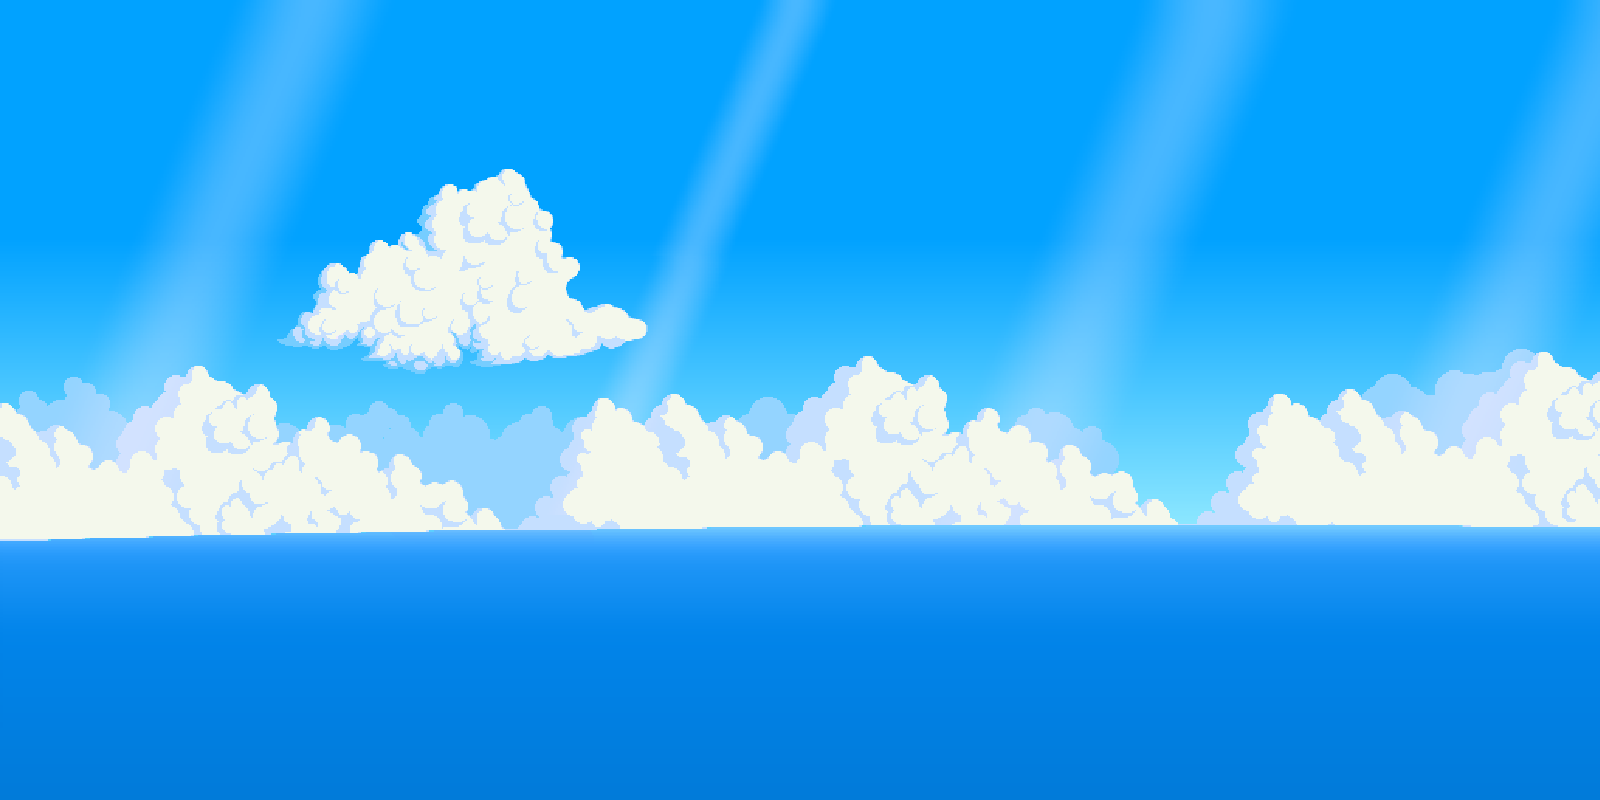
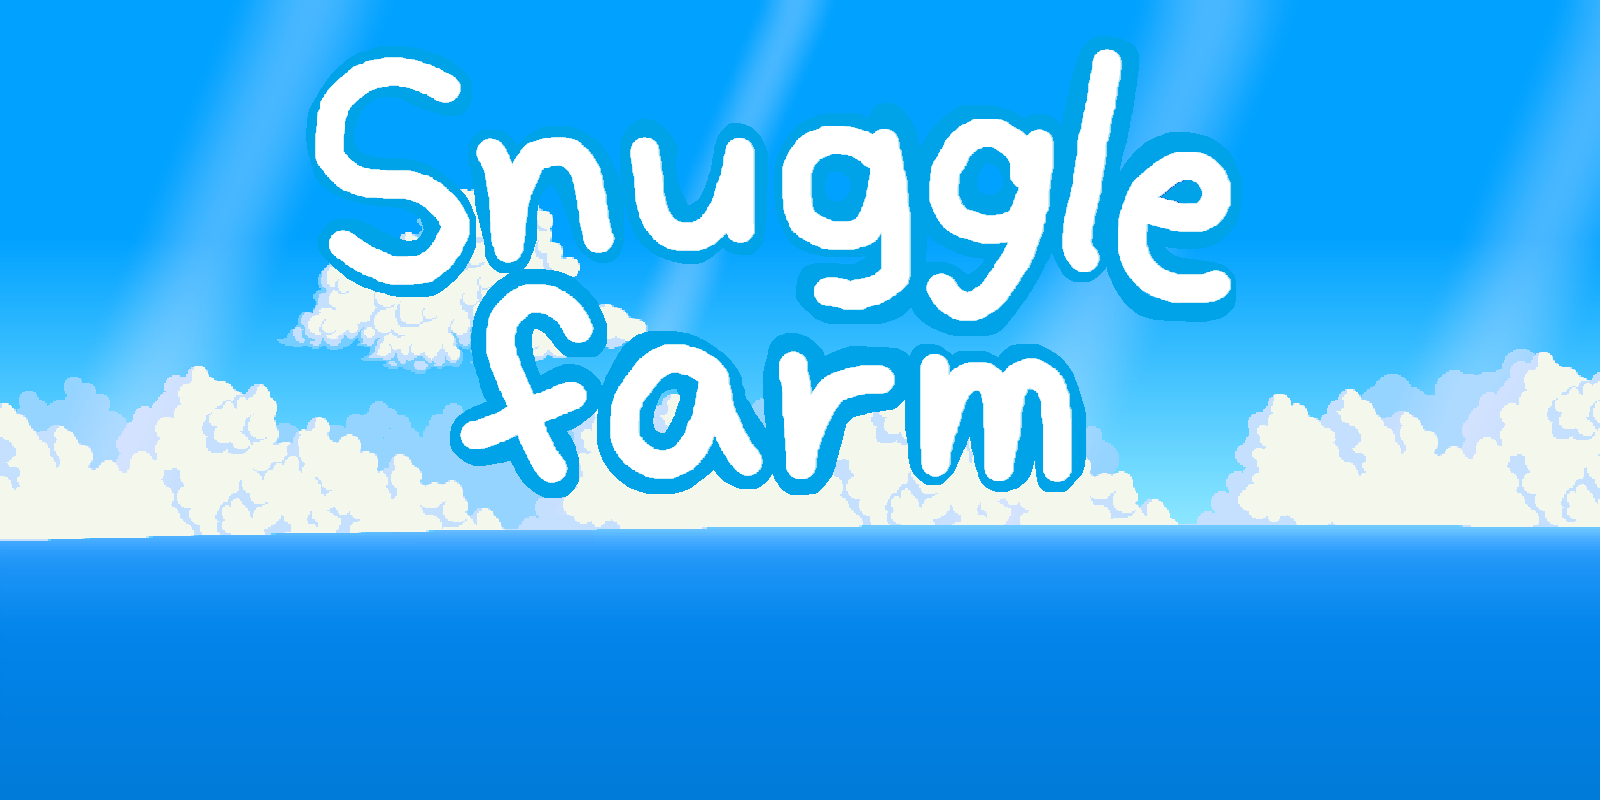
스테이지 0 이미지 수정 및 적용

Changed region(s): [[0.1875, 0.0625, 0.7812, 0.625]]

diff --git a/main.py b/main.py
@@ -6,7 +6,7 @@ root = tkinter.Tk()
 monitor_height = root.winfo_screenheight()
 monitor_width = root.winfo_screenwidth()
 
-class Background:
+class StageManager:
     stage_num=None #0 시작 화면 1 기본 화면
     def __init__(self):
         self.x, self.y = monitor_width/2, monitor_height/2
@@ -30,7 +30,7 @@ class Background:
 
     def draw_start_screen(self):
         self.background0_image.clip_draw(0, 0, monitor_width, monitor_height, self.x, self.y)
-        self.background0_text_image.clip_draw(0, 0, 1200, 200, self.x, 200+self.frame*5)
+        self.background0_text_image.clip_draw(0, 0, 600, 100, self.x, 150+self.frame*5)
 
     def draw_main_screen(self):
         self.background1_image.clip_draw(0, 0, monitor_width, monitor_height, self.x, self.y)
@@ -52,21 +52,21 @@ def handle_events():
     for event in events:
         if event.type == SDL_KEYDOWN and event.key == SDLK_ESCAPE:
             running = False
-        elif event.key == SDLK_RETURN and background.stage_num == 0:
-            background.stage_num = 1
+        elif event.key == SDLK_RETURN and stage_maanager.stage_num == 0:
+            stage_maanager.stage_num = 1
         else:
             pass
 
 def reset_world():
     global running
     global world
-    global background
+    global stage_maanager
 
     running = True
     world = []
 
-    background = Background()
-    world.append(background)
+    stage_maanager = StageManager()
+    world.append(stage_maanager)
 
 def update_world():
     for o in world:
